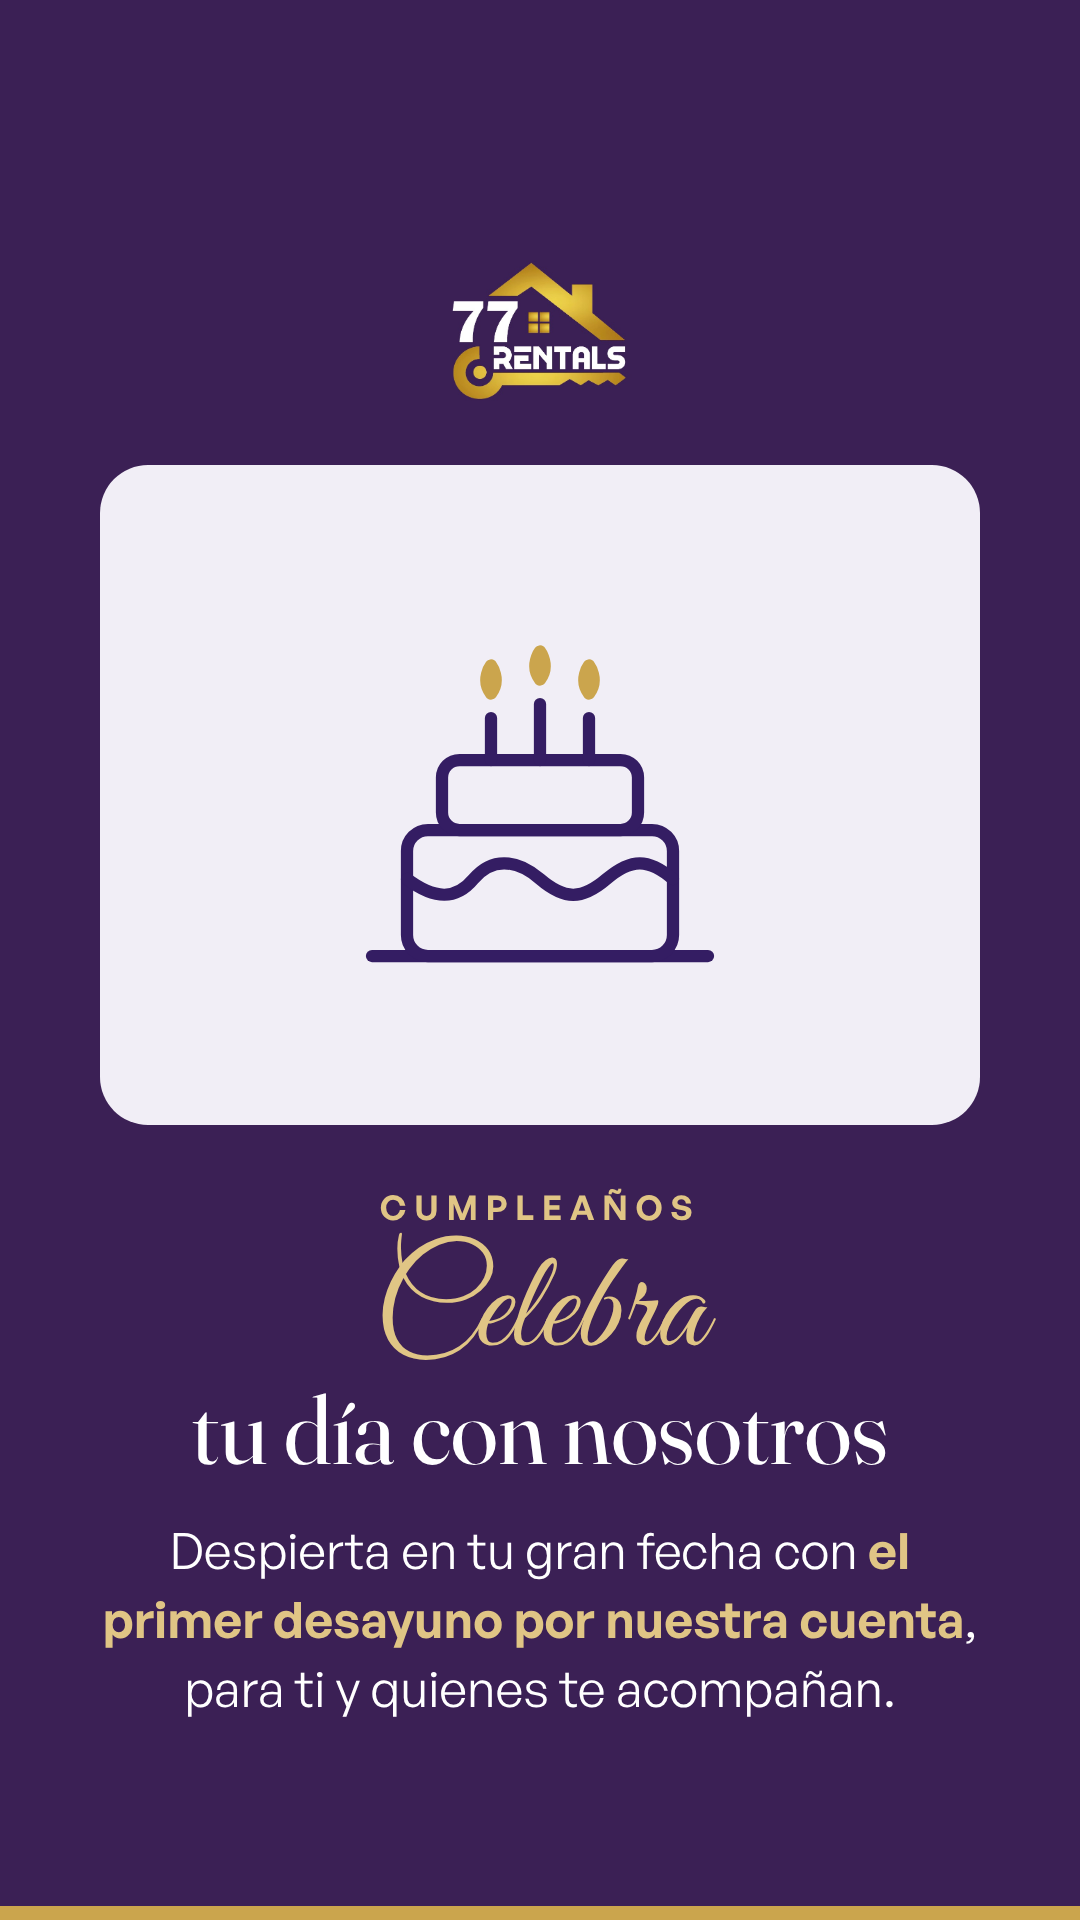
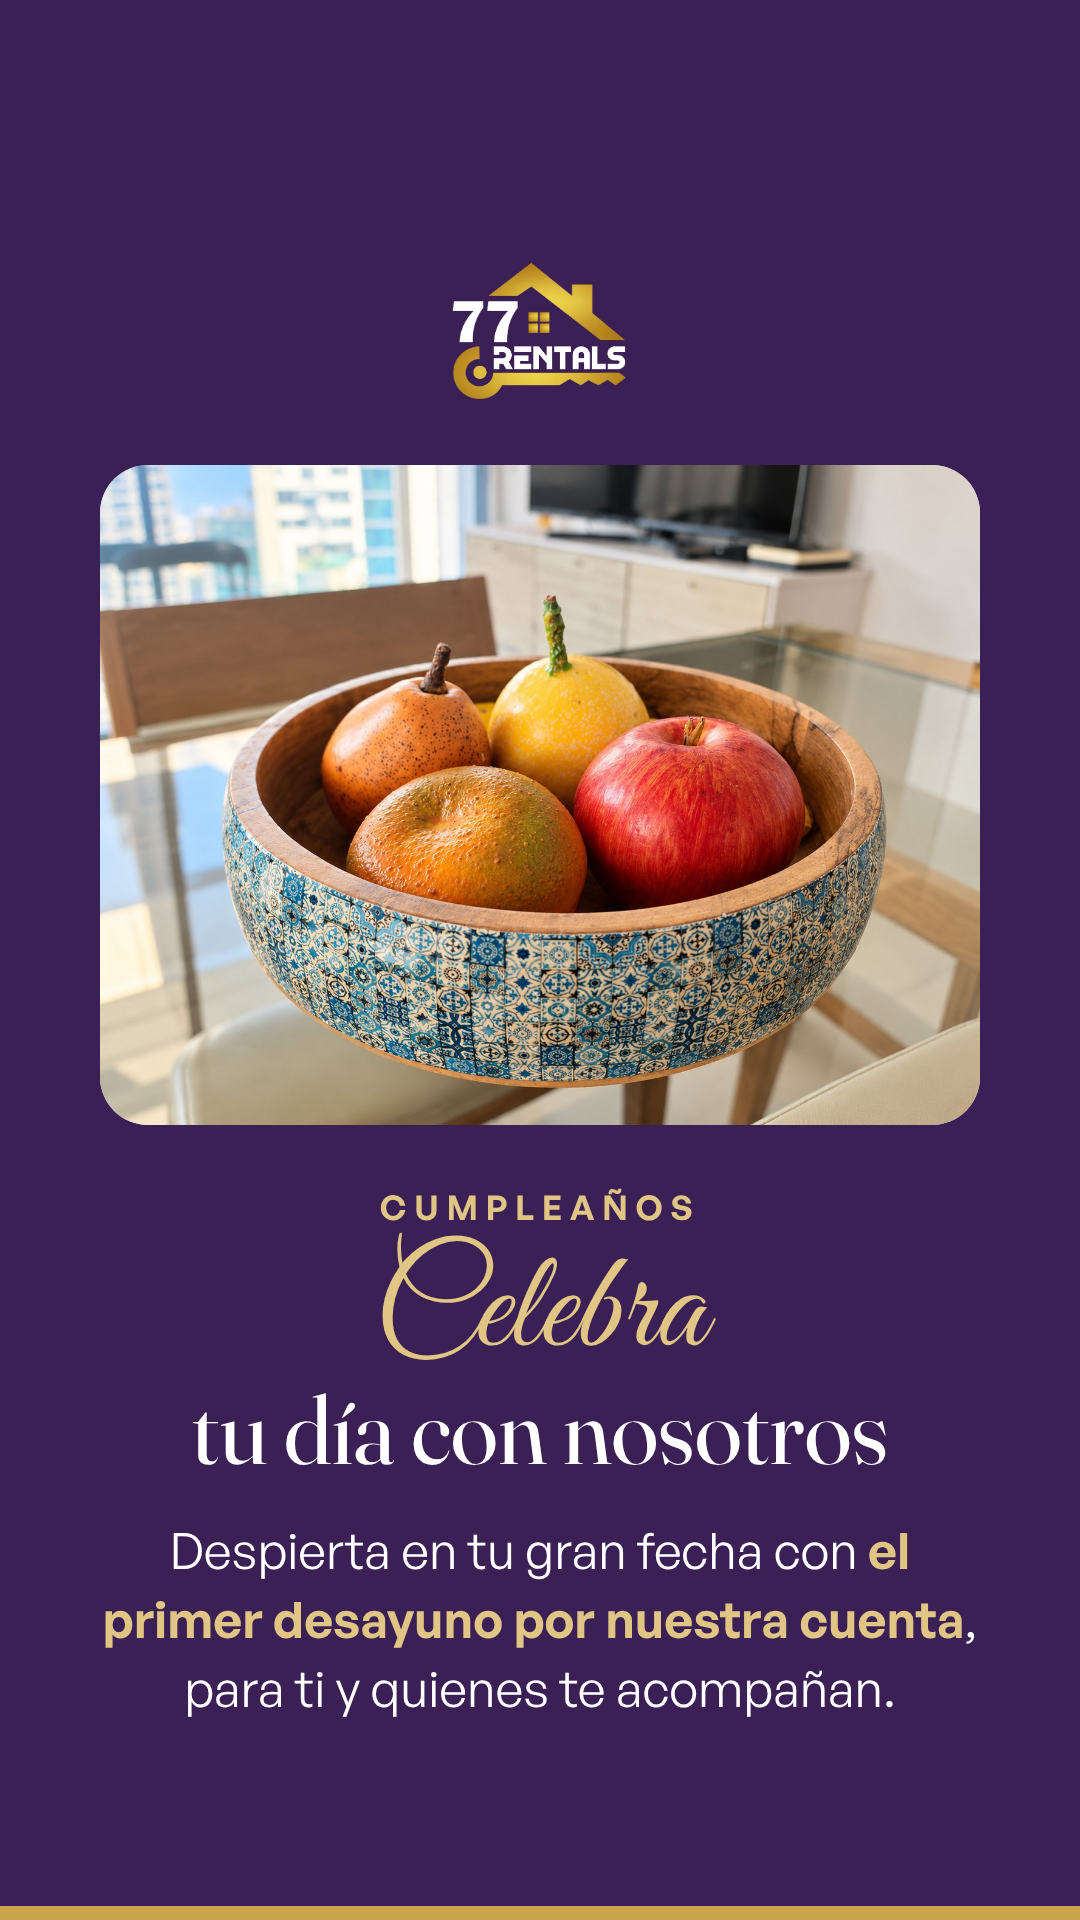
Benefits stories: real Cartagena photos and a tourism plans slide
Claude-Session: https://claude.ai/code/session_01TDPBARZhupyD6MsTVAoLWM

Changed region(s): [[0.0917, 0.2188, 0.9167, 0.5938]]

diff --git a/posters/stories/beneficios/beneficios.html b/posters/stories/beneficios/beneficios.html
@@ -30,12 +30,16 @@
   .italic { font-family: var(--font-heading); font-style: italic; }
 
   /* cover */
-  .cover { justify-content: center; padding-bottom: 250px; }
-  .cover .logo { width: 640px; display: block; }
-  .cover h1 { font-family: var(--font-heading); font-weight: 400; font-size: 118px; line-height: 1.05; margin-top: 90px; text-wrap: balance; }
-  .cover .rule { width: 140px; height: 8px; border-radius: 4px; background: var(--gold); margin: 60px auto 0; }
-  .cover .text { margin-top: 56px; font-size: 56px; }
-  .tap { margin-top: 90px; font-size: 32px; font-weight: 600; letter-spacing: .18em; text-transform: uppercase; color: var(--gold-light); display: flex; align-items: center; gap: 18px; }
+  .cover { padding-top: 700px; }
+  .cover-photo { position: absolute; left: 0; right: 0; top: 0; height: 900px; background: center 40% / cover no-repeat; }
+  .cover-photo::after { content: ""; position: absolute; inset: 0; background: linear-gradient(to bottom, rgba(59,32,85,0) 45%, var(--purple-logo) 100%); }
+  .cover > :not(.cover-photo) { position: relative; }
+  .cover .logo { width: 380px; display: block; border-radius: 28px; }
+  .cover h1 { font-family: var(--font-heading); font-weight: 400; font-size: 100px; line-height: 1.05; margin-top: 40px; text-wrap: balance; }
+  .badge { position: absolute; left: 28px; bottom: 28px; background: var(--gold); color: var(--purple-dark); border-radius: 999px; padding: 14px 30px; font-size: 32px; font-weight: 600; }
+  .cover .rule { width: 140px; height: 8px; border-radius: 4px; background: var(--gold); margin: 36px auto 0; }
+  .cover .text { margin-top: 30px; font-size: 50px; }
+  .tap { margin-top: 44px; font-size: 32px; font-weight: 600; letter-spacing: .18em; text-transform: uppercase; color: var(--gold-light); display: flex; align-items: center; gap: 18px; }
   .tap svg { width: 44px; height: 44px; }
 
   /* nights */
@@ -65,7 +69,8 @@
 <div id="slides"></div>
 <script>
 // Real photos go here: put the file in assets/photos/stories/ and set its path, e.g. '../../../assets/photos/stories/desayuno.jpg'.
-const PHOTOS = { descuentos: null, cumple: null, noches: null, mascota: null, detalle: null };
+const P = '../../../assets/photos/stories/';
+const PHOTOS = { descuentos: P + 'descuentos-bahia.jpg', cumple: P + 'cumple-frutero.jpg', noches: P + 'noche-habitacion.jpg', mascota: null, detalle: null, planes: P + 'planes-atardecer.jpg' };
 
 const svg = (inner) => `<svg viewBox="0 0 120 120" fill="none" stroke="currentColor" stroke-width="3.5" stroke-linecap="round" stroke-linejoin="round">${inner}</svg>`;
 const G = 'fill="#CBA54D" stroke="#CBA54D"';
@@ -75,7 +80,7 @@ const ART = {
   mascota: `<ellipse cx="54" cy="78" rx="22" ry="18"/><ellipse cx="26" cy="54" rx="8" ry="10"/><ellipse cx="42" cy="36" rx="8" ry="10"/><ellipse cx="66" cy="36" rx="8" ry="10"/><ellipse cx="82" cy="54" rx="8" ry="10"/><g stroke="#CBA54D" stroke-width="4"><rect x="84" y="90" width="26" height="20" rx="2"/><rect x="81" y="83" width="32" height="8" rx="2"/><path d="M97 83v27M97 83c-4-9-14-9-10-1 2 3 10 1 10 1zM97 83c4-9 14-9 10-1-2 3-10 1-10 1z"/></g>`,
   detalle: `<rect x="20" y="54" width="80" height="52" rx="4"/><rect x="14" y="40" width="92" height="16" rx="4"/><path d="M60 40v66" stroke="#CBA54D" stroke-width="6"/><path d="M60 40c-8-18-30-18-22-2 4 6 22 2 22 2zM60 40c8-18 30-18 22-2-4 6-22 2-22 2z" stroke="#CBA54D" stroke-width="5"/>`,
 };
-const photo = (key, fallback) => `<div class="photo">${PHOTOS[key] ? `<img class="ph" src="${PHOTOS[key]}" alt="">` : fallback}</div>`;
+const photo = (key, fallback, badge = '') => `<div class="photo">${PHOTOS[key] ? `<img class="ph" src="${PHOTOS[key]}" alt="">${badge}` : fallback}</div>`;
 const LOGO = '../../../brand/logos/logo77.jpeg';
 const mini = `<img class="mini-logo" src="${LOGO}" alt="77Rentals">`;
 
@@ -87,6 +92,7 @@ const nightsArt = `<div class="nights">
 
 const SLIDES = [
   `<div class="slide cover">
+    <div class="cover-photo" style="background-image:url('${P}portada-atardecer.jpg')"></div>
     <img class="logo" src="${LOGO}" alt="77Rentals">
     <h1>Cada vez que vuelves,<span class="script">todo es mejor</span></h1>
     <div class="rule"></div>
@@ -103,7 +109,7 @@ const SLIDES = [
     <h2><span class="script">Celebra</span>tu día con nosotros</h2>
     <p class="text">Despierta en tu gran fecha con <strong>el primer desayuno por nuestra cuenta</strong>, para ti y quienes te acompañan.</p>
   </div>`,
-  `<div class="slide">${mini}${photo('noches', nightsArt)}
+  `<div class="slide">${mini}${photo('noches', nightsArt, '<div class="badge">6 noches + 1 gratis</div>')}
     <div class="kicker">Huésped frecuente</div>
     <h2>Suma recuerdos,<span class="script">gana una noche</span></h2>
     <p class="text">Hospédate <strong>6 noches al año</strong> con nosotros y te regalamos una más, totalmente gratis.</p>
@@ -117,6 +123,11 @@ const SLIDES = [
     <div class="kicker">¿Sabías que...?</div>
     <h2>Llegar y sentirte<span class="script">en casa</span></h2>
     <p class="text">Siempre encontrarás <strong>un detalle de bienvenida</strong>, porque una buena estadía empieza desde que abres la puerta.</p>
+  </div>`,
+  `<div class="slide">${mini}${photo('planes', '')}
+    <div class="kicker">Planes turísticos</div>
+    <h2><span class="script">Vive</span>Cartagena a tu manera</h2>
+    <p class="text">Te ofrecemos <strong>los mejores planes turísticos en Cartagena</strong>. Pregúntanos por WhatsApp y armamos tu plan.</p>
   </div>`,
   `<div class="slide closing">
     <img class="logo" src="${LOGO}" alt="77Rentals">

diff --git a/assets/photos/stories/README.md b/assets/photos/stories/README.md
@@ -1,0 +1,11 @@
+# Photos used in the benefit stories
+
+Taken from the 77Rentals Google Drive on 2026-11-07, resized for the stories.
+
+| File | Drive source | Used in |
+| --- | --- | --- |
+| portada-atardecer.jpg | Cartagena / Murano piso 35 / 3504 nuevas / editadas airbnb 3504 / balcon 6.png (cropped to hide the surfboard with the unit number) | Cover |
+| descuentos-bahia.jpg | same folder / balcon bahia.png | Descuentos |
+| cumple-frutero.jpg | same folder / frutero.png | Cumpleaños |
+| noche-habitacion.jpg | same folder / habitacion 3.png | Noche gratis |
+| planes-atardecer.jpg | Cartagena - Fragata 901 / 77251a05-b8dd-4b0f-ab29-0aaeed071848.jpg | Planes turísticos |
